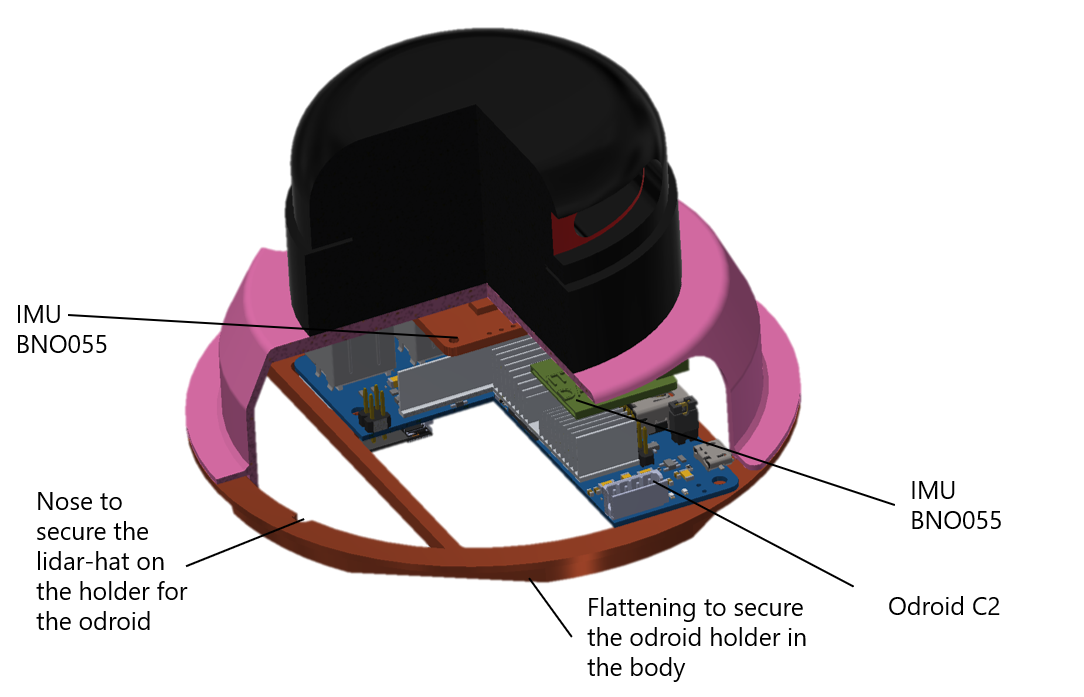
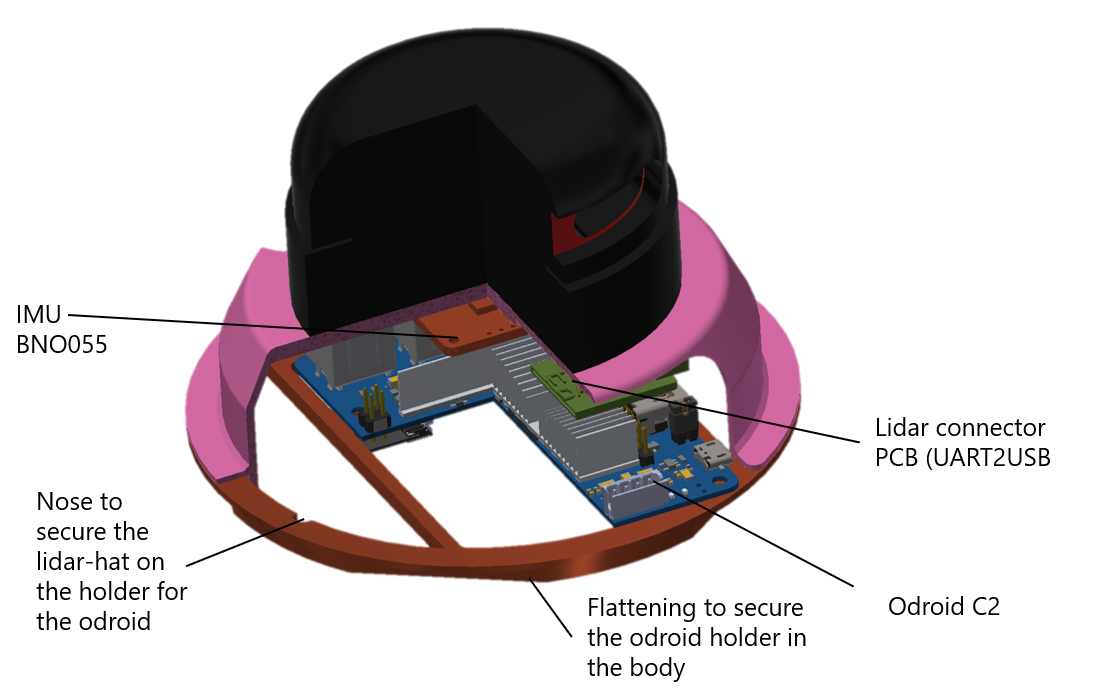
no message

diff --git a/docs/construction.md b/docs/construction.md
@@ -53,9 +53,9 @@ The body contains the Odroid, Teensy, batteries and the switched power supply in
 
 <img  width="600px" src="../images/cad-pentapod-body-cut.png"/>
 
-The lidar is sitting on top of a small hat that contains the IMU, the Lidar's Uart2USb Adapter. This hat is placed on the holder for the odroid:
+The lidar is sitting on top of a small hat that contains the IMU and the Lidar's Uart2USb Adapter. This hat is placed on the holder for the odroid:
 
-<img  width="500px" src="../images/cad-odroid-lidar-holder.png"/>
+<img  width="600px" src="../images/cad-odroid-lidar-holder.png"/>
 
 
 <img  width="600px" src="../images/inside-the-body.jpg"/>
